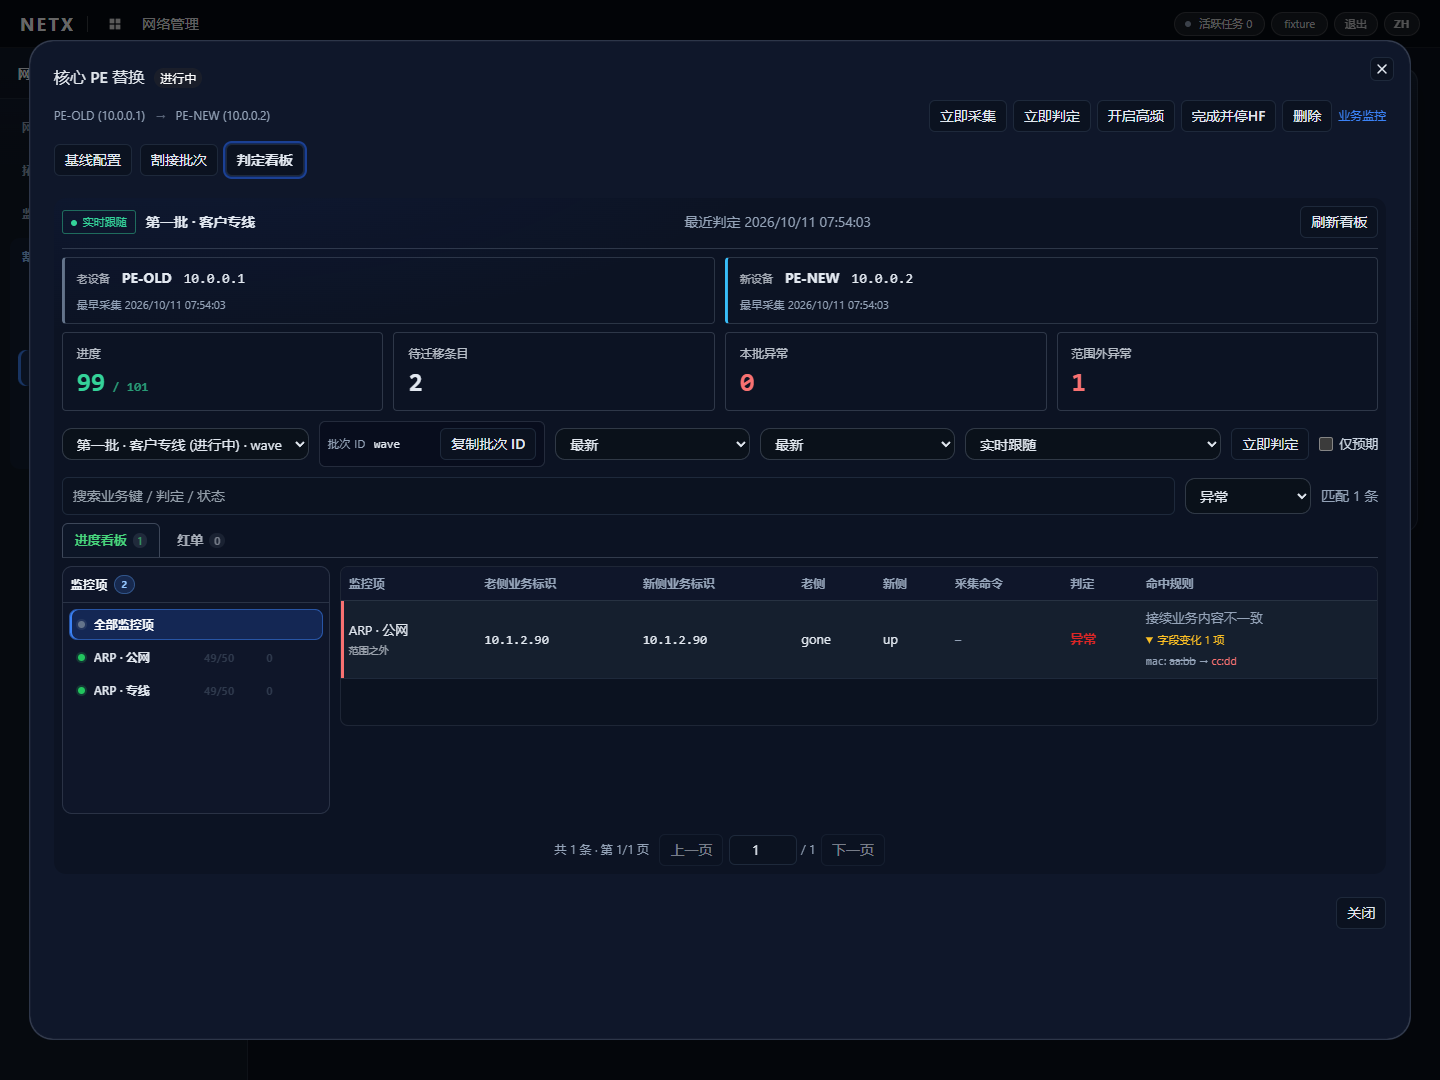
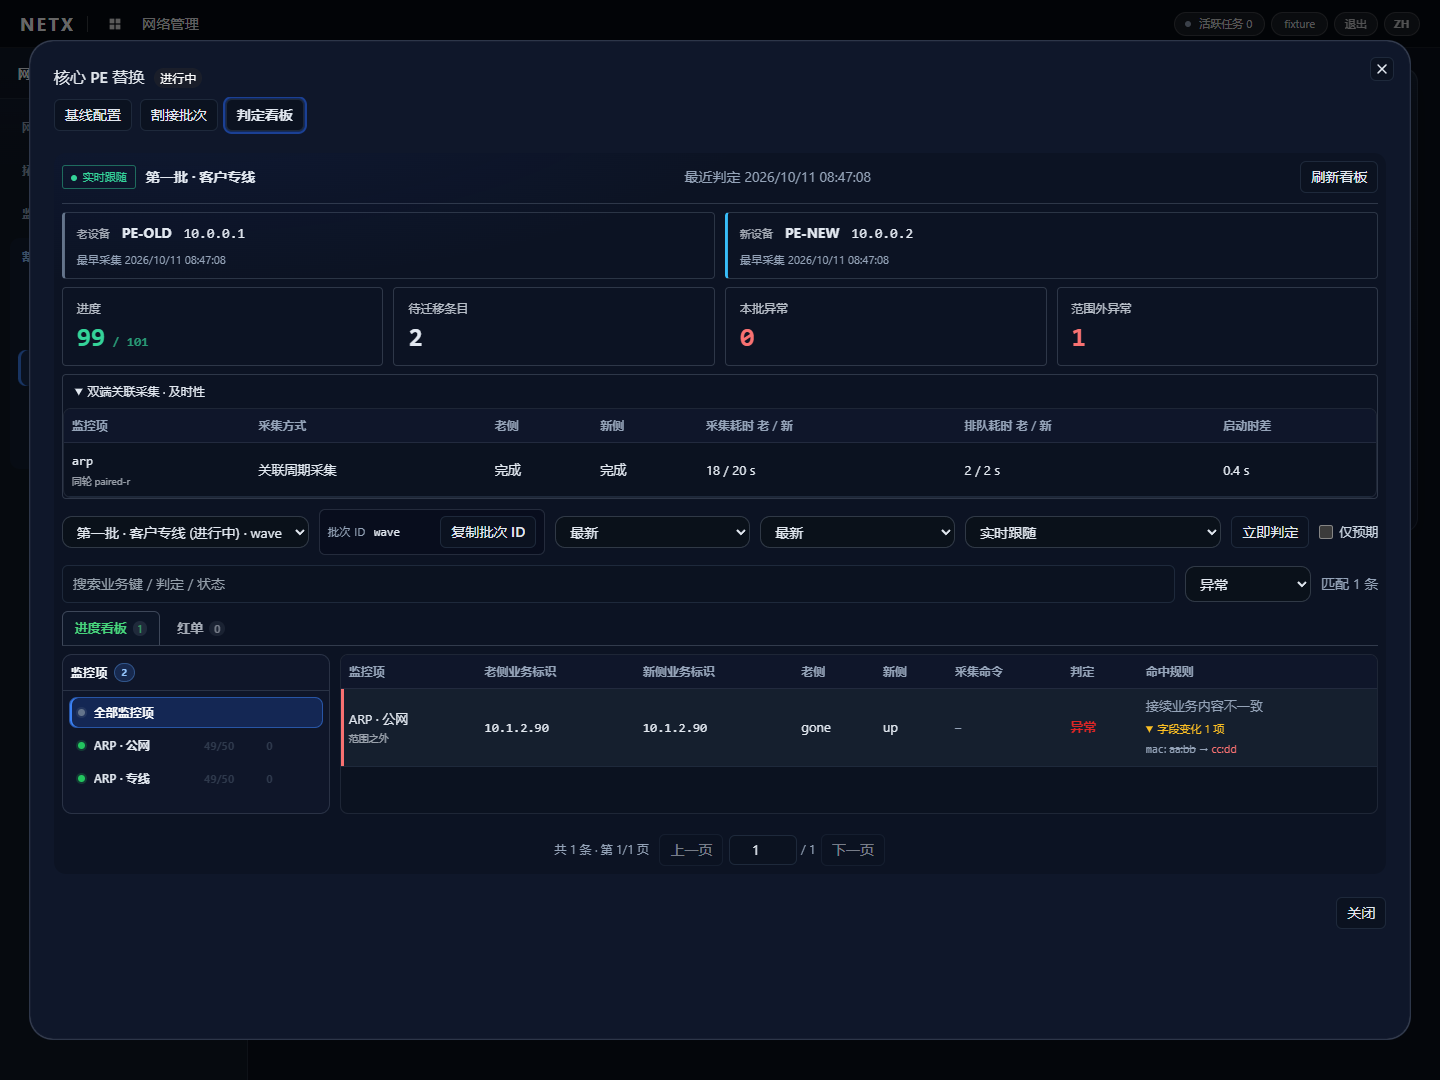
feat(cutover-ui): show paired timing and manual route configuration

diff --git a/web/src/pages/network/BizMigrationPage.tsx b/web/src/pages/network/BizMigrationPage.tsx
@@ -50,6 +50,8 @@ type CreateStep = 0 | 1 | 2 | 3;
 const CREATE_NE_PAGE_SIZE_DEFAULT = 20;
 const CREATE_NE_PAGE_SIZE_OPTIONS = [10, 20, 50, 100];
 const CREATE_STEPS = 4;
+const MANUAL_ROUTE_METRICS = new Set(["ip_route", "ipv6_route", "bgp_route"]);
+const isManualMetric = (mid: string) => MANUAL_ROUTE_METRICS.has(mid);
 
 function neSourceOf(row: CliTargetItem): "managed" | "ume" {
   return row.source === "ume" ? "ume" : "managed";
@@ -75,12 +77,13 @@ function monitorTplMetrics(tpl: MonitorTplOpt | null | undefined): string[] {
   return mids.length ? mids : ["interface_brief"];
 }
 
-/** Empty override = use monitor-template default (full effective set). */
-function collectOverridePayload(selected: string[], available: string[]): string[] {
-  if (!available.length) return selected.filter(Boolean);
-  const sel = new Set(selected.filter(Boolean));
-  if (sel.size === available.length && available.every((m) => sel.has(m))) return [];
-  return [...sel];
+// Freeze the operator selection; later template additions stay opt-in.
+function collectOverridePayload(selected: string[], _available: string[]): string[] {
+  return [...new Set(selected.filter(Boolean))];
+}
+
+function availableTplMetrics(tpl: MonitorTplOpt | null | undefined): string[] {
+  return tpl?.available_metric_ids?.length ? tpl.available_metric_ids : monitorTplMetrics(tpl);
 }
 
 function metricIntervalPayload(
@@ -90,7 +93,7 @@ function metricIntervalPayload(
   const out: Record<string, number> = {};
   for (const mid of selected) {
     const raw = intervals[mid];
-    if (raw && Number(raw) >= 60) out[mid] = Math.max(60, Number(raw));
+    if (!isManualMetric(mid) && raw && Number(raw) >= 60) out[mid] = Math.max(60, Number(raw));
   }
   return out;
 }
@@ -139,15 +142,24 @@ function mapMigrationApiErr(
   }
   if (detail === "old_baseline_required") return t("bizMigration.errOldBaselineRequired");
   if (detail === "new_baseline_required") return t("bizMigration.errNewBaselineRequired");
+  if (detail === "collect_pair_same_device") return t("bizMigration.errPairSameDevice");
   return formatErr(e);
 }
 
+function collectErrorMessage(code: string, t: (key: string) => string): string {
+  const keys: Record<string, string> = {
+    collect_pair_capacity: "errPairCapacity", collect_pair_busy: "errPairBusy",
+    collect_pair_invalid: "errPairInvalid", hf_task_missing: "hfNotBound",
+  };
+  return keys[code] ? t(`bizMigration.${keys[code]}`) : code || "collect_failed";
+}
+
 function formatHfBindLine(
-  binds?: Array<{ task_id: string; metric_ids?: string[]; interval_sec?: number }>,
+  binds?: Array<{ task_id: string; metric_ids?: string[]; interval_sec?: number; manual_only?: boolean; collect_group_id?: string }>,
 ): string {
   if (!binds?.length) return "";
   return binds
-    .map((b) => `${b.interval_sec || 60}s·${(b.metric_ids || []).join("+") || "—"}`)
+    .map((b) => `${b.manual_only ? "manual" : `${b.interval_sec || 60}s`}·${(b.metric_ids || []).join("+") || "—"}`)
     .join(" · ");
 }
 
@@ -172,6 +184,7 @@ type MonitorTplOpt = {
   compare_template_name?: string;
   collect_metric_ids?: string[];
   collect_metric_ids_effective?: string[];
+  available_metric_ids?: string[];
 };
 type Project = {
   id: string;
@@ -180,8 +193,8 @@ type Project = {
   new_task_id: string;
   old_hf_task_id?: string;
   new_hf_task_id?: string;
-  old_hf_bindings?: Array<{ task_id: string; metric_ids?: string[]; interval_sec?: number }>;
-  new_hf_bindings?: Array<{ task_id: string; metric_ids?: string[]; interval_sec?: number }>;
+  old_hf_bindings?: Array<{ task_id: string; metric_ids?: string[]; interval_sec?: number; manual_only?: boolean; collect_group_id?: string }>;
+  new_hf_bindings?: Array<{ task_id: string; metric_ids?: string[]; interval_sec?: number; manual_only?: boolean; collect_group_id?: string }>;
   old_baseline_batch_id: string;
   new_baseline_batch_id: string;
   mapping_id: string;
@@ -276,6 +289,18 @@ type RedTicket = {
   status: string;
   evidence?: DiffRow["evidence"];
 };
+type SamplingPair = {
+  metric_id: string;
+  manual_only?: boolean;
+  collect_round_id?: string;
+  old_collect_status?: string;
+  new_collect_status?: string;
+  old_duration_sec?: number;
+  new_duration_sec?: number;
+  old_queue_sec?: number;
+  new_queue_sec?: number;
+  start_skew_sec?: number;
+};
 type SheetCard = {
   metric_id: string;
   sheet_id?: string;
@@ -294,6 +319,7 @@ type SheetCard = {
   duplicate_keys_before?: number;
   duplicate_keys_after?: number;
   age_limit_sec?: number;
+  baseline_missing_sides?: string[];
 };
 type EvalRun = {
   id: string;
@@ -419,6 +445,7 @@ export function BizMigrationPage() {
   const [batches, setBatches] = useState<MigBatch[]>([]);
   const [batchId, setBatchId] = useState("");
   const [board, setBoard] = useState<{
+    sampling?: SamplingPair[];
     run?: {
       id: string;
       created_at?: string;
@@ -483,7 +510,9 @@ export function BizMigrationPage() {
   const samplesStale = monitorIsLive && sheetCards.some((c) =>
     [c.old_collected_at, c.new_collected_at].some((at) => at &&
       boardClock - Date.parse(at) > (c.age_limit_sec || 180) * 1000));
-  const coverageUnknown = Boolean(board?.run && (liveSummary?.coverage_complete !== true || samplesStale));
+  const pairedPending = followLatest && board?.sampling?.some((pair) =>
+    [pair.old_collect_status, pair.new_collect_status].some((s) => !["success", "partial"].includes(s || "idle")));
+  const coverageUnknown = Boolean(board?.run && (liveSummary?.coverage_complete !== true || samplesStale || pairedPending));
 
   const filteredProjects = useMemo(() => {
     const kw = debouncedListKw.trim().toLowerCase();
@@ -693,6 +722,9 @@ export function BizMigrationPage() {
             collect_metric_ids_effective: Array.isArray(x.collect_metric_ids_effective)
               ? (x.collect_metric_ids_effective as string[])
               : [],
+            available_metric_ids: Array.isArray(x.available_metric_ids)
+              ? (x.available_metric_ids as string[])
+              : [],
           }));
           setMonitorTpls(mts);
           if (!createMonitorTplId && mts.length) {
@@ -701,7 +733,7 @@ export function BizMigrationPage() {
               mts.find((x) => /默认|default|状态|status/i.test(x.name)) ||
               mts[0];
             setCreateMonitorTplId(preferred.id);
-            setCreateCollectMetricIds(monitorTplMetrics(preferred));
+            setCreateCollectMetricIds(monitorTplMetrics(preferred).filter((mid) => !isManualMetric(mid)));
           }
         };
         apply(await cutoverCachedGetSWR("bizMigration:bootstrap", fetchBundle, apply));
@@ -1086,7 +1118,7 @@ export function BizMigrationPage() {
       monitorTpls[0];
     const tplId = preferred?.id || "";
     setCreateMonitorTplId(tplId);
-    setCreateCollectMetricIds(monitorTplMetrics(preferred));
+    setCreateCollectMetricIds(monitorTplMetrics(preferred).filter((mid) => !isManualMetric(mid)));
   }
 
   const openCreate = () => {
@@ -1443,7 +1475,7 @@ export function BizMigrationPage() {
       } else if (sum.kind === "partial") {
         showError(t("bizMigration.collectPartial", { ok: String(sum.okN), fail: String(sum.failN) }));
       } else if (sum.kind === "fail" || sum.kind === "missing") {
-        showError(sum.err === "hf_task_missing" ? t("bizMigration.hfNotBound") : sum.err);
+        showError(collectErrorMessage(sum.err, t));
       } else {
         showOk(t("bizMigration.highfreqReady"));
       }
@@ -1468,7 +1500,7 @@ export function BizMigrationPage() {
       else if (sum.kind === "missing") showError(t("bizMigration.hfNotBound"));
       else if (sum.kind === "partial") {
         showError(t("bizMigration.collectPartial", { ok: String(sum.okN), fail: String(sum.failN) }));
-      } else if (sum.kind === "fail") showError(sum.err || "collect_failed");
+      } else if (sum.kind === "fail") showError(collectErrorMessage(sum.err, t));
       else showOk(t("bizMigration.collectTriggered"));
     } catch (e) {
       showError(formatErr(e));
@@ -1525,7 +1557,7 @@ export function BizMigrationPage() {
 
   const collectMetricOptions = useMemo(() => {
     const set = new Set<string>();
-    for (const m of monitorTplMetrics(selectedMonitorTpl as MonitorTplOpt | null)) {
+    for (const m of availableTplMetrics(selectedMonitorTpl as MonitorTplOpt | null)) {
       if (m) set.add(m);
     }
     for (const m of project?.collect_metric_ids_effective || []) {
@@ -1557,7 +1589,7 @@ export function BizMigrationPage() {
 
   const createTplMetrics = useMemo(() => {
     const tpl = monitorTpls.find((m) => m.id === createMonitorTplId);
-    const base = monitorTplMetrics(tpl);
+    const base = availableTplMetrics(tpl);
     const set = new Set([...base, ...createCollectMetricIds]);
     return [...set];
   }, [monitorTpls, createMonitorTplId, createCollectMetricIds]);
@@ -1942,7 +1974,7 @@ export function BizMigrationPage() {
                   const id = e.target.value;
                   setCreateMonitorTplId(id);
                   const tpl = monitorTpls.find((m) => m.id === id);
-                  setCreateCollectMetricIds(monitorTplMetrics(tpl));
+                  setCreateCollectMetricIds(monitorTplMetrics(tpl).filter((mid) => !isManualMetric(mid)));
                   setCreateMetricIntervalSec({});
                 }}
                 fullWidth
@@ -1960,6 +1992,7 @@ export function BizMigrationPage() {
                   {createCollectMetricIds.length}/{createTplMetrics.length}
                 </span>
               </div>
+              <p className="muted bm-hint">{t("bizMigration.pairCollectionHint")}</p>
               <div className="bm-metric-chips">
                 {createTplMetrics.map((mid) => {
                   const on = createCollectMetricIds.includes(mid);
@@ -1974,7 +2007,7 @@ export function BizMigrationPage() {
                         );
                       }}
                     >
-                      {mid}
+                      {mid}{isManualMetric(mid) ? <small> · {t("bizMigration.manualRoute")}</small> : null}
                     </button>
                   );
                 })}
@@ -2035,7 +2068,7 @@ export function BizMigrationPage() {
                           <tr key={mid}>
                             <td>{mid}</td>
                             <td>
-                              <Input
+                              {isManualMetric(mid) ? <span>{t("bizMigration.manualRoute")}</span> : <Input
                                 type="number"
                                 min={60}
                                 placeholder={String(createHfIntervalSec)}
@@ -2047,7 +2080,7 @@ export function BizMigrationPage() {
                                   }))
                                 }
                                 aria-label={`${mid} interval`}
-                              />
+                              />}
                             </td>
                           </tr>
                         ))}
@@ -2330,6 +2363,7 @@ export function BizMigrationPage() {
                   </div>
                   <div className="bm-hf-collect">
                     <div className="bm-mapping__label">{t("bizMigration.projectCollectMetrics")}</div>
+                    <p className="muted bm-hint">{t("bizMigration.pairCollectionHint")}</p>
                     <div className="bm-metric-chips">
                       {collectMetricOptions.map((mid) => {
                         const on = collectMetricIds.includes(mid);
@@ -2344,7 +2378,7 @@ export function BizMigrationPage() {
                               );
                             }}
                           >
-                            {mid}
+                            {mid}{isManualMetric(mid) ? <small> · {t("bizMigration.manualRoute")}</small> : null}
                           </button>
                         );
                       })}
@@ -2366,7 +2400,7 @@ export function BizMigrationPage() {
                               <tr key={mid}>
                                 <td>{mid}</td>
                                 <td>
-                                  <Input
+                                  {isManualMetric(mid) ? <span>{t("bizMigration.manualRoute")}</span> : <Input
                                     type="number"
                                     min={60}
                                     placeholder={String(hfIntervalSec)}
@@ -2378,7 +2412,7 @@ export function BizMigrationPage() {
                                       }))
                                     }
                                     aria-label={`${mid} interval`}
-                                  />
+                                  />}
                                 </td>
                               </tr>
                             ))}
@@ -2703,9 +2737,27 @@ export function BizMigrationPage() {
                     <div className="is-bad"><span>{t("bizMigration.anomalyInBatch")}</span><strong>{Math.max(0, (liveSummary?.anomaly ?? 0) - (liveSummary?.anomaly_outside_expect ?? 0))}</strong></div>
                     <div className="is-bad"><span>{t("bizMigration.anomalyOutsideBatch")}</span><strong>{liveSummary?.anomaly_outside_expect ?? 0}</strong></div>
                   </div>
+                  {followLatest && board?.sampling?.length ? <details className="bm-sampling" open>
+                    <summary>{t("bizMigration.pairedSampling")}</summary>
+                    <div className="pt-list-table-wrap"><table className="data-table pt-list-table">
+                      <thead><tr><th>{t("bizMigration.sectionMetrics")}</th><th>{t("bizMigration.samplingMode")}</th><th>{t("bizMigration.colOld")}</th><th>{t("bizMigration.colNew")}</th><th>{t("bizMigration.samplingDuration")}</th><th>{t("bizMigration.samplingQueue")}</th><th>{t("bizMigration.startSkew")}</th></tr></thead>
+                      <tbody>{board.sampling.map((pair) => <tr key={pair.metric_id}>
+                        <td><code>{pair.metric_id}</code><small className="bm-scope-label">{pair.collect_round_id ? t("bizMigration.sameRound") + " " + pair.collect_round_id.slice(0, 8) : "—"}</small></td>
+                        <td>{t(pair.manual_only ? "bizMigration.manualRoute" : "bizMigration.pairedPeriodic")}</td>
+                        <td>{t("bizMigration.samplePhase_" + (pair.old_collect_status || "idle"))}</td>
+                        <td>{t("bizMigration.samplePhase_" + (pair.new_collect_status || "idle"))}</td>
+                        <td>{Math.round(pair.old_duration_sec || 0)} / {Math.round(pair.new_duration_sec || 0)} s</td>
+                        <td>{Math.round(pair.old_queue_sec || 0)} / {Math.round(pair.new_queue_sec || 0)} s</td>
+                        <td>{pair.start_skew_sec == null ? "—" : pair.start_skew_sec.toFixed(1) + " s"}</td>
+                      </tr>)}</tbody>
+                    </table></div>
+                  </details> : null}
                   {coverageUnknown ? <div className="bm-live-warning" role="status">
                     <strong>{t("bizMigration.coverageUnknown")}</strong><span>{t("bizMigration.coverageUnknownHint")}</span>
                     {samplesStale ? <span>{t("bizMigration.sample_stale")}</span> : null}
+                    {pairedPending ? <span>{t("bizMigration.collect_pair_pending")}</span> : null}
+                    {sheetCards.filter((c) => c.baseline_missing_sides?.length).map((c) =>
+                      <span key={sheetIdentity(c)}>{sheetLabel(c)}: {t("bizMigration.metricBaselineMissing")}</span>)}
                     {sheetCards.filter((c) => c.sample_issues?.length || c.awaiting_peer).map((c) =>
                       <span key={sheetIdentity(c)}>{sheetLabel(c)}: {c.awaiting_peer ? t("bizMigration.awaitingPeer") :
                         c.sample_issues?.map((issue) => t(`bizMigration.${issue}`)).join(" · ")}</span>)}

diff --git a/web/src/i18n/en.ts b/web/src/i18n/en.ts
@@ -696,6 +696,29 @@ const en = {
     colChange: "Changes",
   },
   bizMigration: {
+    pairCollectionHint: "Each metric has a paired collection round. Saving settings updates task bindings. Route tables are manual-only for final checks; use a separate business comparison for millions of routes. Actual cadence depends on command duration and device availability.",
+    pairedSampling: "Paired sampling · Timeliness",
+    manualRoute: "Manual final check",
+    pairedPeriodic: "Paired periodic",
+    samplingMode: "Sampling mode",
+    samplingDuration: "Duration old / new",
+    samplingQueue: "Queue old / new",
+    startSkew: "Start skew",
+    sameRound: "Round",
+    metricBaselineMissing: "This metric needs a matching baseline receipt",
+    samplePhase_idle: "Not collected",
+    samplePhase_queued: "Queued",
+    samplePhase_running: "Collecting",
+    samplePhase_success: "Complete",
+    samplePhase_partial: "Partial",
+    samplePhase_failed: "Failed",
+    samplePhase_cancelled: "Stopped",
+    collect_pair_invalid: "Incomplete collection pair",
+    collect_pair_missing: "No complete paired sample",
+    collect_pair_pending: "Waiting for both sides of this round",
+    collect_pair_failed: "Current round failed; older samples cannot replace it",
+    collect_round_mismatch: "Samples belong to different rounds",
+    sample_start_skew: "Actual collection starts are too far apart",
     latestSnapshot: "Latest snapshot",
     steadyOutside: "{{n}} stable items outside scope",
     "followLive": "Follow live",
@@ -848,6 +871,10 @@ const en = {
     tabBoard: "Board",
     saveBaseline: "Save",
     baselineSaved: "Baseline saved",
+    errPairCapacity: "Paired sampling needs at least two collection slots. Check task concurrency, collection threads and the CLI budget.",
+    errPairBusy: "This metric is still collecting or queued on either side. Wait for the round to finish.",
+    errPairInvalid: "The collector pair is incomplete. Save configuration again to restore it.",
+    errPairSameDevice: "Cutover monitoring requires two different devices.",
     pickExpectPorts: "Expect",
     portFilterPh: "Filter",
     emptyBaselinePorts: "No baseline data",

diff --git a/web/src/i18n/zh.ts b/web/src/i18n/zh.ts
@@ -695,6 +695,29 @@ const zh = {
     colChange: "变更",
   },
   bizMigration: {
+    pairCollectionHint: "每个指标两侧同轮关联采集。保存配置会同步增删采集任务；路由项仅手动采集，收尾时再选择，百万路由建议使用独立业务对比任务。频率是目标间隔，实际周期受命令耗时与设备占用影响。",
+    pairedSampling: "双端关联采集 · 及时性",
+    manualRoute: "手动收尾",
+    pairedPeriodic: "关联周期采集",
+    samplingMode: "采集方式",
+    samplingDuration: "采集耗时 老 / 新",
+    samplingQueue: "排队耗时 老 / 新",
+    startSkew: "启动时差",
+    sameRound: "同轮",
+    metricBaselineMissing: "基线未覆盖此指标，需要补充对应基线",
+    samplePhase_idle: "尚未采集",
+    samplePhase_queued: "排队",
+    samplePhase_running: "采集中",
+    samplePhase_success: "完成",
+    samplePhase_partial: "部分完成",
+    samplePhase_failed: "采集失败",
+    samplePhase_cancelled: "已停止",
+    collect_pair_invalid: "双端关联配置不完整",
+    collect_pair_missing: "尚无完整同轮样本",
+    collect_pair_pending: "等待两侧同轮采集完成",
+    collect_pair_failed: "本轮采集失败，不能复用旧样本代替",
+    collect_round_mismatch: "两侧样本不属于同一轮次",
+    sample_start_skew: "两侧实际启动时差过大",
     latestSnapshot: "最新快照",
     steadyOutside: "范围外稳定 {{n}} 条",
     "followLive": "实时跟随",
@@ -844,6 +867,10 @@ const zh = {
     tabBoard: "判定看板",
     saveBaseline: "保存配置",
     baselineSaved: "基线已保存",
+    errPairCapacity: "双端关联采集至少需要两个采集并发槽位，请检查任务并发、采集线程和 CLI 预算配置。",
+    errPairBusy: "该指标的两侧仍在采集或排队，请等待本轮结束。",
+    errPairInvalid: "双端采集关联不完整，请重新保存配置建立关联。",
+    errPairSameDevice: "割接监控需要选择两台不同设备。",
     pickExpectPorts: "本批预期",
     portFilterPh: "筛选",
     emptyBaselinePorts: "基线无数据",

diff --git a/web/src/index.css b/web/src/index.css
@@ -11210,6 +11210,9 @@ html.login-page--paused .login-page__flare {
 .bm-field-changes div { padding-top: 5px; overflow-wrap: anywhere; }
 .bm-field-changes ins { color: #f87171; text-decoration: none; }
 .bm-board .bs-cmp-main { min-width: 0; }
+.bm-sampling { border: 1px solid rgba(148,163,184,.25); border-radius: 4px; min-width: 0; }
+.bm-sampling > summary { padding: 8px 12px; cursor: pointer; font-size: 12px; }
+.app-heroui-modal .bm-sampling .pt-list-table-wrap { max-width: 100%; min-height: 0; }
 @media (max-width: 720px) {
   .bm-live-sources { grid-template-columns: 1fr; }
   .bm-live-kpis { grid-template-columns: repeat(2,minmax(0,1fr)); gap: 6px; }
